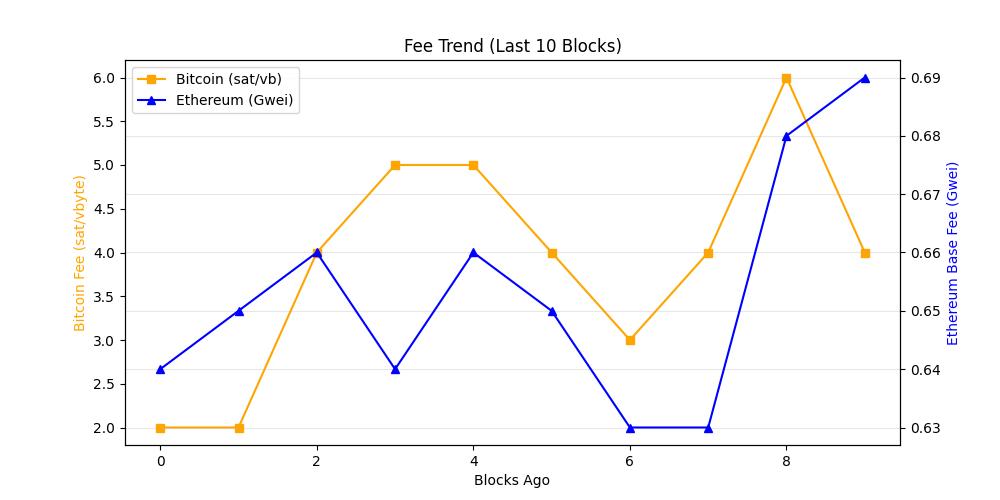
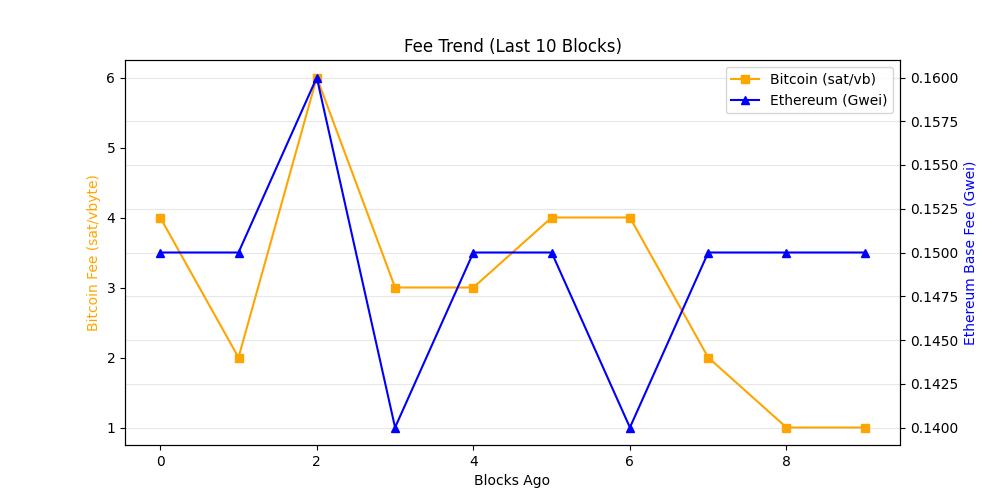
chore: update on-chain dashboard

diff --git a/README.md b/README.md
@@ -19,7 +19,7 @@ The README itself acts as the dashboard and is regenerated automatically on a 6 
 demonstrating a production-style, infrastructure-focused observability workflow rather
 than a traditional UI-driven approach.
 
-_Last updated: 2026-09-25 17:09 UTC_
+_Last updated: 2026-09-25 21:33 UTC_
 
 ## API Usage (GetBlock.io)
 - Calls used: **24**
@@ -27,8 +27,8 @@ _Last updated: 2026-09-25 17:09 UTC_
 ## Network Metrics
 | Chain | Block Height | TX Count | TPS (10 blk avg) | Block Util | Avg Fee |
 |------|-------------|----------|------------------|------------|---------|
-| Ethereum | 26055856 | 296 | 24.67 | 49.07% | 0.7 Gwei |
-| Bitcoin | 968568 | 4213 | 11.83 | 99.85% | N/A |
+| Ethereum | 26057174 | 257 | 21.42 | 45.1% | 0.1 Gwei |
+| Bitcoin | 968589 | 3420 | 10.06 | 99.79% | N/A |
 
 ## Visuals
 ### Transactions Trend
@@ -43,11 +43,11 @@ _Last updated: 2026-09-25 17:09 UTC_
 ## Whale Alerts (latest block)
 - Transaction hashes are truncated for readability.
 - Full hashes are available in `dashboards/metrics.json`
-- Bitcoin | 113.41 BTC | `a8a74f6d0008…`
-- Bitcoin | 605.12 BTC | `69bd55a412df…`
-- Bitcoin | 371.95 BTC | `12b0221658eb…`
-- Bitcoin | 116.52 BTC | `d464414c3e13…`
-- Bitcoin | 392.88 BTC | `01ef80a3216e…`
+- Bitcoin | 111.42 BTC | `f6e13b3ceb94…`
+- Bitcoin | 1825.08 BTC | `7a6c5bc0e5c1…`
+- Bitcoin | 158.18 BTC | `c3d84c911ae4…`
+- Bitcoin | 276.67 BTC | `b340b7ad19e0…`
+- Bitcoin | 604.0 BTC | `216a5a2cdda6…`
 
 ## Run locally
 
